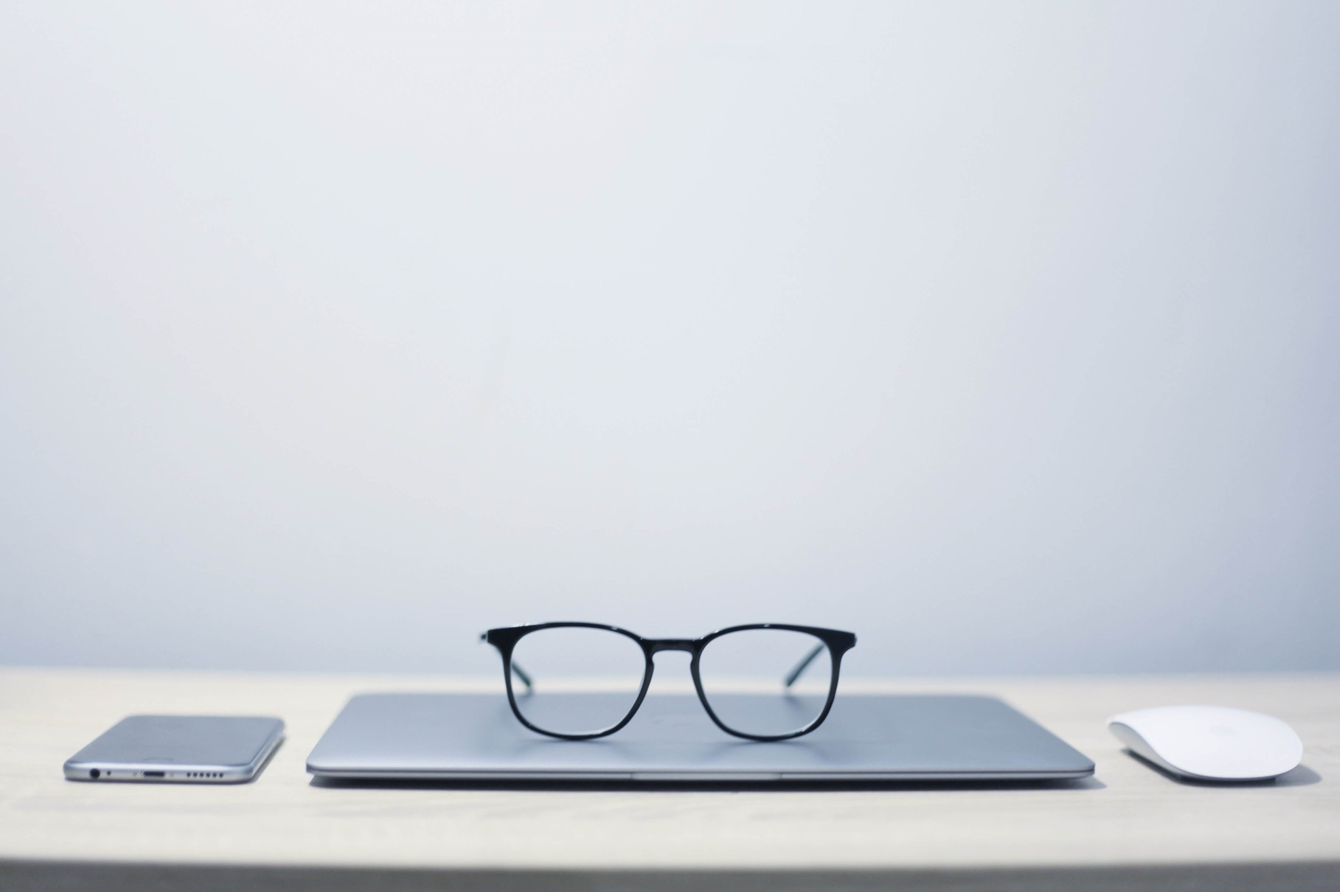
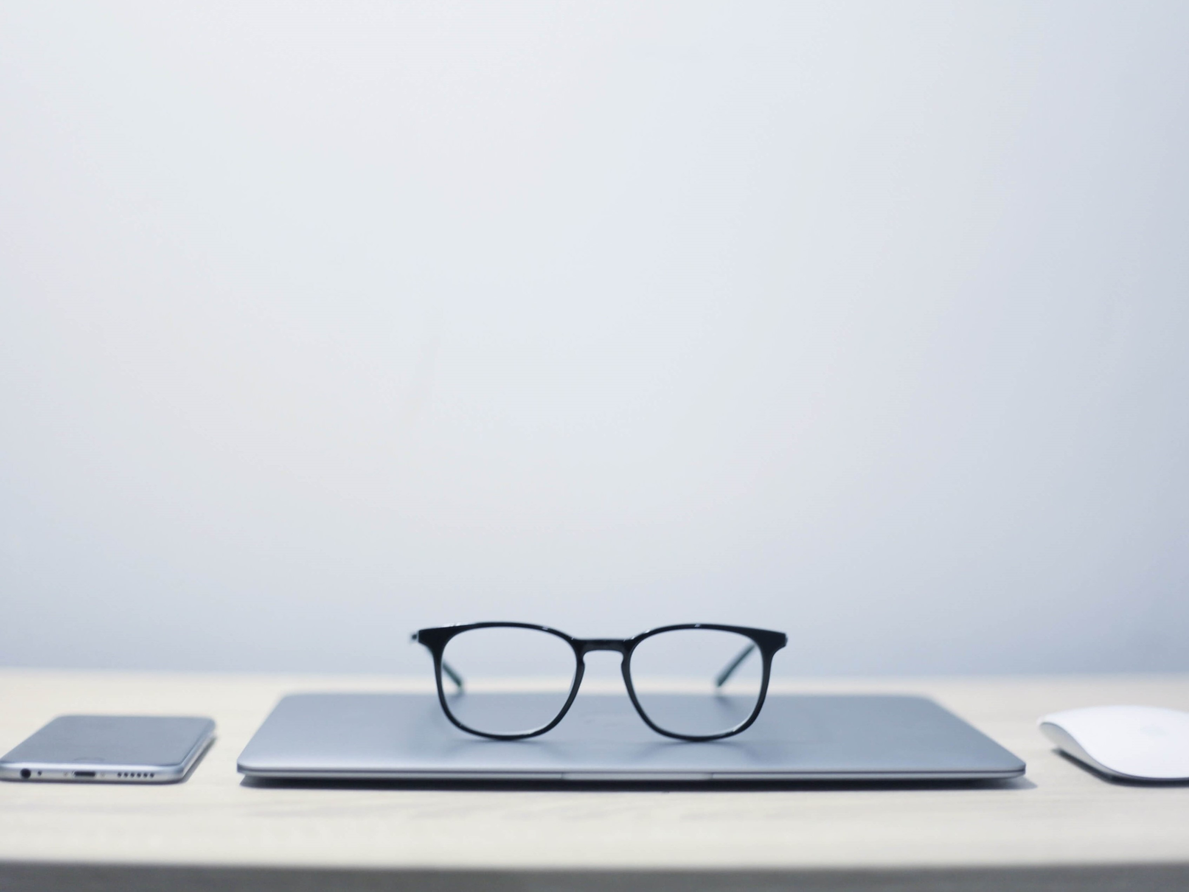
topセクションのbg画像の調整

diff --git a/css/agency.min.css b/css/agency.min.css
@@ -2,4 +2,4 @@
  * Start Bootstrap - Agency v5.2.2 (https://startbootstrap.com/template-overviews/agency)
  * Copyright 2013-2019 Start Bootstrap
  * Licensed under MIT (https://github.com/BlackrockDigital/startbootstrap-agency/blob/master/LICENSE)
- */body{font-family:"Roboto Slab",-apple-system,BlinkMacSystemFont,"Segoe UI",Roboto,"Helvetica Neue",Arial,sans-serif,"Apple Color Emoji","Segoe UI Emoji","Segoe UI Symbol","Noto Color Emoji";overflow-x:hidden}p{line-height:1.75}a{color:#fed136}a:hover{color:#fec503}.text-primary{color:#fed136!important}h1,h2,h3,h4,h5,h6{font-family:Montserrat,-apple-system,BlinkMacSystemFont,"Segoe UI",Roboto,"Helvetica Neue",Arial,sans-serif,"Apple Color Emoji","Segoe UI Emoji","Segoe UI Symbol","Noto Color Emoji";font-weight:700}.page-section{padding:100px 0}.page-section h2.section-heading{font-size:40px;margin-bottom:15px;margin-top:0}.page-section h3.section-subheading{font-family:"Droid Serif",-apple-system,BlinkMacSystemFont,"Segoe UI",Roboto,"Helvetica Neue",Arial,sans-serif,"Apple Color Emoji","Segoe UI Emoji","Segoe UI Symbol","Noto Color Emoji";font-size:16px;font-style:italic;font-weight:400;margin-bottom:75px;text-transform:none}@media (min-width:768px){section{padding:150px 0}}::-moz-selection{background:#fed136;text-shadow:none}::selection{background:#fed136;text-shadow:none}img::-moz-selection{background:0 0}img::selection{background:0 0}img::-moz-selection{background:0 0}.btn{font-family:Montserrat,-apple-system,BlinkMacSystemFont,"Segoe UI",Roboto,"Helvetica Neue",Arial,sans-serif,"Apple Color Emoji","Segoe UI Emoji","Segoe UI Symbol","Noto Color Emoji";font-weight:700}.btn-xl{font-size:18px;padding:20px 40px}.btn-primary{background-color:#fed136;border-color:#fed136}.btn-primary:active,.btn-primary:focus,.btn-primary:hover{background-color:#fec810!important;border-color:#fec810!important;color:#fff}.btn-primary:active,.btn-primary:focus{box-shadow:0 0 0 .2rem rgba(254,209,55,.5)!important}#mainNav{background-color:#212529}#mainNav .navbar-toggler{background-color:#fed136;border:0;color:#fff;font-family:Montserrat,-apple-system,BlinkMacSystemFont,"Segoe UI",Roboto,"Helvetica Neue",Arial,sans-serif,"Apple Color Emoji","Segoe UI Emoji","Segoe UI Symbol","Noto Color Emoji";font-size:12px;padding:13px;right:0;text-transform:uppercase}#mainNav .navbar-brand{color:#fed136;font-family:"Kaushan Script",-apple-system,BlinkMacSystemFont,"Segoe UI",Roboto,"Helvetica Neue",Arial,sans-serif,"Apple Color Emoji","Segoe UI Emoji","Segoe UI Symbol","Noto Color Emoji"}#mainNav .navbar-brand.active,#mainNav .navbar-brand:active,#mainNav .navbar-brand:focus,#mainNav .navbar-brand:hover{color:#fec503}#mainNav .navbar-nav .nav-item .nav-link{color:#fff;font-family:Montserrat,-apple-system,BlinkMacSystemFont,"Segoe UI",Roboto,"Helvetica Neue",Arial,sans-serif,"Apple Color Emoji","Segoe UI Emoji","Segoe UI Symbol","Noto Color Emoji";font-size:90%;font-weight:400;letter-spacing:1px;padding:.75em 0}#mainNav .navbar-nav .nav-item .nav-link.active,#mainNav .navbar-nav .nav-item .nav-link:hover{color:#fed136}@media (min-width:992px){#mainNav{background-color:transparent;border:none;padding-bottom:25px;padding-top:25px;transition:padding-top .3s,padding-bottom .3s}#mainNav .navbar-brand{font-size:1.75em;transition:all .3s}#mainNav .navbar-nav .nav-item .nav-link{padding:1.1em 1em!important}#mainNav.navbar-shrink{background-color:#212529;padding-bottom:0;padding-top:0}#mainNav.navbar-shrink .navbar-brand{font-size:1.25em;padding:12px 0}}header.masthead{background-attachment:scroll;background-image:url(../img/header-bg.jpg);background-position:center center;background-repeat:no-repeat;background-size:cover;color:#fff;text-align:center}header.masthead .intro-text{padding-bottom:100px;padding-top:100px}header.masthead .intro-text .intro-lead-in{font-family:"Droid Serif",-apple-system,BlinkMacSystemFont,"Segoe UI",Roboto,"Helvetica Neue",Arial,sans-serif,"Apple Color Emoji","Segoe UI Emoji","Segoe UI Symbol","Noto Color Emoji";font-size:22px;font-style:italic;line-height:22px;margin-bottom:25px}header.masthead .intro-text .intro-heading{font-family:Montserrat,-apple-system,BlinkMacSystemFont,"Segoe UI",Roboto,"Helvetica Neue",Arial,sans-serif,"Apple Color Emoji","Segoe UI Emoji","Segoe UI Symbol","Noto Color Emoji";font-size:50px;font-weight:700;line-height:50px;margin-bottom:25px}@media (min-width:768px){header.masthead .intro-text{padding-bottom:200px;padding-top:300px}header.masthead .intro-text .intro-lead-in{font-family:"Droid Serif",-apple-system,BlinkMacSystemFont,"Segoe UI",Roboto,"Helvetica Neue",Arial,sans-serif,"Apple Color Emoji","Segoe UI Emoji","Segoe UI Symbol","Noto Color Emoji";font-size:40px;font-style:italic;line-height:40px;margin-bottom:25px}header.masthead .intro-text .intro-heading{font-family:Montserrat,-apple-system,BlinkMacSystemFont,"Segoe UI",Roboto,"Helvetica Neue",Arial,sans-serif,"Apple Color Emoji","Segoe UI Emoji","Segoe UI Symbol","Noto Color Emoji";font-size:75px;font-weight:700;line-height:75px;margin-bottom:50px}}.service-heading{margin:15px 0;text-transform:none}#portfolio .portfolio-item{margin:0 0 15px;right:0}#portfolio .portfolio-item .portfolio-link{cursor:pointer;display:block;margin:0 auto;max-width:400px;position:relative}#portfolio .portfolio-item .portfolio-link .portfolio-hover{background:rgba(254,209,54,.9);height:100%;opacity:0;position:absolute;transition:all ease .5s;width:100%}#portfolio .portfolio-item .portfolio-link .portfolio-hover:hover{opacity:1}#portfolio .portfolio-item .portfolio-link .portfolio-hover .portfolio-hover-content{color:#fff;font-size:20px;height:20px;margin-top:-12px;position:absolute;text-align:center;top:50%;width:100%}#portfolio .portfolio-item .portfolio-link .portfolio-hover .portfolio-hover-content i{margin-top:-12px}#portfolio .portfolio-item .portfolio-link .portfolio-hover .portfolio-hover-content h3,#portfolio .portfolio-item .portfolio-link .portfolio-hover .portfolio-hover-content h4{margin:0}#portfolio .portfolio-item .portfolio-caption{background-color:#fff;margin:0 auto;max-width:400px;padding:25px;text-align:center}#portfolio .portfolio-item .portfolio-caption h4{margin:0;text-transform:none}#portfolio .portfolio-item .portfolio-caption p{font-family:"Droid Serif",-apple-system,BlinkMacSystemFont,"Segoe UI",Roboto,"Helvetica Neue",Arial,sans-serif,"Apple Color Emoji","Segoe UI Emoji","Segoe UI Symbol","Noto Color Emoji";font-size:16px;font-style:italic;margin:0}#portfolio *{z-index:2}@media (min-width:768px){#portfolio .portfolio-item{margin:0 0 30px}}.portfolio-modal .modal-dialog{margin:1rem;max-width:100vw}.portfolio-modal .modal-content{padding:100px 0;text-align:center}.portfolio-modal .modal-content h2{font-size:3em;margin-bottom:15px}.portfolio-modal .modal-content p{margin-bottom:30px}.portfolio-modal .modal-content p.item-intro{font-family:"Droid Serif",-apple-system,BlinkMacSystemFont,"Segoe UI",Roboto,"Helvetica Neue",Arial,sans-serif,"Apple Color Emoji","Segoe UI Emoji","Segoe UI Symbol","Noto Color Emoji";font-size:16px;font-style:italic;margin:20px 0 30px}.portfolio-modal .modal-content ul.list-inline{margin-bottom:30px;margin-top:0}.portfolio-modal .modal-content img{margin-bottom:30px}.portfolio-modal .modal-content button{cursor:pointer}.portfolio-modal .close-modal{background-color:transparent;cursor:pointer;height:75px;position:absolute;right:25px;top:25px;width:75px}.portfolio-modal .close-modal:hover{opacity:.3}.portfolio-modal .close-modal .lr{background-color:#212529;height:75px;margin-left:35px;transform:rotate(45deg);width:1px;z-index:1051}.portfolio-modal .close-modal .lr .rl{background-color:#212529;height:75px;transform:rotate(90deg);width:1px;z-index:1052}.timeline{list-style:none;padding:0;position:relative}.timeline:before{background-color:#e9ecef;bottom:0;content:"";left:40px;margin-left:-1.5px;position:absolute;top:0;width:2px}.timeline>li{margin-bottom:50px;min-height:50px;position:relative}.timeline>li:after,.timeline>li:before{content:" ";display:table}.timeline>li:after{clear:both}.timeline>li .timeline-panel{float:right;padding:0 20px 0 100px;position:relative;text-align:left;width:100%}.timeline>li .timeline-panel:before{border-left-width:0;border-right-width:15px;left:-15px;right:auto}.timeline>li .timeline-panel:after{border-left-width:0;border-right-width:14px;left:-14px;right:auto}.timeline>li .timeline-image{background-color:#fed136;border:7px solid #e9ecef;border-radius:100%;color:#fff;height:80px;left:0;margin-left:0;position:absolute;text-align:center;width:80px;z-index:100}.timeline>li .timeline-image h4{font-size:10px;line-height:14px;margin-top:12px}.timeline>li.timeline-inverted>.timeline-panel{float:right;padding:0 20px 0 100px;text-align:left}.timeline>li.timeline-inverted>.timeline-panel:before{border-left-width:0;border-right-width:15px;left:-15px;right:auto}.timeline>li.timeline-inverted>.timeline-panel:after{border-left-width:0;border-right-width:14px;left:-14px;right:auto}.timeline>li:last-child{margin-bottom:0}.timeline .timeline-heading h4{color:inherit;margin-top:0}.timeline .timeline-heading h4.subheading{text-transform:none}.timeline .timeline-body>p,.timeline .timeline-body>ul{margin-bottom:0}@media (min-width:768px){.timeline:before{left:50%}.timeline>li{margin-bottom:100px;min-height:100px}.timeline>li .timeline-panel{float:left;padding:0 20px 20px 30px;text-align:right;width:41%}.timeline>li .timeline-image{height:100px;left:50%;margin-left:-50px;width:100px}.timeline>li .timeline-image h4{font-size:13px;line-height:18px;margin-top:16px}.timeline>li.timeline-inverted>.timeline-panel{float:right;padding:0 30px 20px 20px;text-align:left}}@media (min-width:992px){.timeline>li{min-height:150px}.timeline>li .timeline-panel{padding:0 20px 20px}.timeline>li .timeline-image{height:150px;margin-left:-75px;width:150px}.timeline>li .timeline-image h4{font-size:18px;line-height:26px;margin-top:30px}.timeline>li.timeline-inverted>.timeline-panel{padding:0 20px 20px}}@media (min-width:1200px){.timeline>li{min-height:170px}.timeline>li .timeline-panel{padding:0 20px 20px 100px}.timeline>li .timeline-image{height:170px;margin-left:-85px;width:170px}.timeline>li .timeline-image h4{margin-top:40px}.timeline>li.timeline-inverted>.timeline-panel{padding:0 100px 20px 20px}}.team-member{margin-bottom:50px;text-align:center}.team-member img{border:7px solid rgba(0,0,0,.1);height:225px;width:225px}.team-member h4{margin-bottom:0;margin-top:25px;text-transform:none}.team-member p{margin-top:0}section#contact{background-color:#212529;background-image:url(../img/map-image.png);background-position:center;background-repeat:no-repeat}section#contact .section-heading{color:#fff}section#contact .form-group{margin-bottom:25px}section#contact .form-group input,section#contact .form-group textarea{padding:20px}section#contact .form-group input.form-control{height:auto}section#contact .form-group textarea.form-control{height:248px}section#contact .form-control:focus{border-color:#fed136;box-shadow:none}section#contact ::-webkit-input-placeholder{color:#ced4da;font-family:Montserrat,-apple-system,BlinkMacSystemFont,"Segoe UI",Roboto,"Helvetica Neue",Arial,sans-serif,"Apple Color Emoji","Segoe UI Emoji","Segoe UI Symbol","Noto Color Emoji";font-weight:700}section#contact :-moz-placeholder{color:#ced4da;font-family:Montserrat,-apple-system,BlinkMacSystemFont,"Segoe UI",Roboto,"Helvetica Neue",Arial,sans-serif,"Apple Color Emoji","Segoe UI Emoji","Segoe UI Symbol","Noto Color Emoji";font-weight:700}section#contact ::-moz-placeholder{color:#ced4da;font-family:Montserrat,-apple-system,BlinkMacSystemFont,"Segoe UI",Roboto,"Helvetica Neue",Arial,sans-serif,"Apple Color Emoji","Segoe UI Emoji","Segoe UI Symbol","Noto Color Emoji";font-weight:700}section#contact :-ms-input-placeholder{color:#ced4da;font-family:Montserrat,-apple-system,BlinkMacSystemFont,"Segoe UI",Roboto,"Helvetica Neue",Arial,sans-serif,"Apple Color Emoji","Segoe UI Emoji","Segoe UI Symbol","Noto Color Emoji";font-weight:700}.footer{padding:25px 0;text-align:center}.footer span.copyright{font-family:Montserrat,-apple-system,BlinkMacSystemFont,"Segoe UI",Roboto,"Helvetica Neue",Arial,sans-serif,"Apple Color Emoji","Segoe UI Emoji","Segoe UI Symbol","Noto Color Emoji";font-size:90%;line-height:40px;text-transform:none}.footer ul.quicklinks{font-family:Montserrat,-apple-system,BlinkMacSystemFont,"Segoe UI",Roboto,"Helvetica Neue",Arial,sans-serif,"Apple Color Emoji","Segoe UI Emoji","Segoe UI Symbol","Noto Color Emoji";font-size:90%;line-height:40px;margin-bottom:0;text-transform:none}ul.social-buttons{margin-bottom:0}ul.social-buttons li a{background-color:#212529;border-radius:100%;color:#fff;display:block;font-size:20px;height:50px;line-height:50px;outline:0;transition:all .3s;width:50px}ul.social-buttons li a:active,ul.social-buttons li a:focus,ul.social-buttons li a:hover{background-color:#fed136}
+ */body{font-family:"Roboto Slab",-apple-system,BlinkMacSystemFont,"Segoe UI",Roboto,"Helvetica Neue",Arial,sans-serif,"Apple Color Emoji","Segoe UI Emoji","Segoe UI Symbol","Noto Color Emoji";overflow-x:hidden}p{line-height:1.75}a{color:#fed136}a:hover{color:#fec503}.text-primary{color:#fed136!important}h1,h2,h3,h4,h5,h6{font-family:Montserrat,-apple-system,BlinkMacSystemFont,"Segoe UI",Roboto,"Helvetica Neue",Arial,sans-serif,"Apple Color Emoji","Segoe UI Emoji","Segoe UI Symbol","Noto Color Emoji";font-weight:700}.page-section{padding:100px 0}.page-section h2.section-heading{font-size:40px;margin-bottom:15px;margin-top:0}.page-section h3.section-subheading{font-family:"Droid Serif",-apple-system,BlinkMacSystemFont,"Segoe UI",Roboto,"Helvetica Neue",Arial,sans-serif,"Apple Color Emoji","Segoe UI Emoji","Segoe UI Symbol","Noto Color Emoji";font-size:16px;font-style:italic;font-weight:400;margin-bottom:75px;text-transform:none}@media (min-width:768px){section{padding:150px 0}}::-moz-selection{background:#fed136;text-shadow:none}::selection{background:#fed136;text-shadow:none}img::-moz-selection{background:0 0}img::selection{background:0 0}img::-moz-selection{background:0 0}.btn{font-family:Montserrat,-apple-system,BlinkMacSystemFont,"Segoe UI",Roboto,"Helvetica Neue",Arial,sans-serif,"Apple Color Emoji","Segoe UI Emoji","Segoe UI Symbol","Noto Color Emoji";font-weight:700}.btn-xl{font-size:18px;padding:20px 40px}.btn-primary{background-color:#fed136;border-color:#fed136}.btn-primary:active,.btn-primary:focus,.btn-primary:hover{background-color:#fec810!important;border-color:#fec810!important;color:#fff}.btn-primary:active,.btn-primary:focus{box-shadow:0 0 0 .2rem rgba(254,209,55,.5)!important}#mainNav{background-color:#212529}#mainNav .navbar-toggler{background-color:#fed136;border:0;color:#fff;font-family:Montserrat,-apple-system,BlinkMacSystemFont,"Segoe UI",Roboto,"Helvetica Neue",Arial,sans-serif,"Apple Color Emoji","Segoe UI Emoji","Segoe UI Symbol","Noto Color Emoji";font-size:12px;padding:13px;right:0;text-transform:uppercase}#mainNav .navbar-brand{color:#fed136;font-family:"Kaushan Script",-apple-system,BlinkMacSystemFont,"Segoe UI",Roboto,"Helvetica Neue",Arial,sans-serif,"Apple Color Emoji","Segoe UI Emoji","Segoe UI Symbol","Noto Color Emoji"}#mainNav .navbar-brand.active,#mainNav .navbar-brand:active,#mainNav .navbar-brand:focus,#mainNav .navbar-brand:hover{color:#fec503}#mainNav .navbar-nav .nav-item .nav-link{color:#fff;font-family:Montserrat,-apple-system,BlinkMacSystemFont,"Segoe UI",Roboto,"Helvetica Neue",Arial,sans-serif,"Apple Color Emoji","Segoe UI Emoji","Segoe UI Symbol","Noto Color Emoji";font-size:90%;font-weight:400;letter-spacing:1px;padding:.75em 0}#mainNav .navbar-nav .nav-item .nav-link.active,#mainNav .navbar-nav .nav-item .nav-link:hover{color:#fed136}@media (min-width:992px){#mainNav{background-color:transparent;border:none;padding-bottom:25px;padding-top:25px;transition:padding-top .3s,padding-bottom .3s}#mainNav .navbar-brand{font-size:1.75em;transition:all .3s}#mainNav .navbar-nav .nav-item .nav-link{padding:1.1em 1em!important}#mainNav.navbar-shrink{background-color:#212529;padding-bottom:0;padding-top:0}#mainNav.navbar-shrink .navbar-brand{font-size:1.25em;padding:12px 0}}header.masthead{background-attachment:scroll;background-image:url(../img/header-bg.jpg);background-position:bottom;background-repeat:no-repeat;background-size:cover;color:#fff;text-align:center}header.masthead .intro-text{padding-bottom:170px;padding-top:100px}header.masthead .intro-text .intro-lead-in{font-family:"Droid Serif",-apple-system,BlinkMacSystemFont,"Segoe UI",Roboto,"Helvetica Neue",Arial,sans-serif,"Apple Color Emoji","Segoe UI Emoji","Segoe UI Symbol","Noto Color Emoji";font-size:22px;font-style:italic;line-height:22px;margin-bottom:25px}header.masthead .intro-text .intro-heading{font-family:Montserrat,-apple-system,BlinkMacSystemFont,"Segoe UI",Roboto,"Helvetica Neue",Arial,sans-serif,"Apple Color Emoji","Segoe UI Emoji","Segoe UI Symbol","Noto Color Emoji";font-size:50px;font-weight:700;line-height:50px;margin-bottom:25px}@media (min-width:768px){header.masthead .intro-text{padding-bottom:360px;padding-top:200px}header.masthead .intro-text .intro-lead-in{font-family:"Droid Serif",-apple-system,BlinkMacSystemFont,"Segoe UI",Roboto,"Helvetica Neue",Arial,sans-serif,"Apple Color Emoji","Segoe UI Emoji","Segoe UI Symbol","Noto Color Emoji";font-size:40px;font-style:italic;line-height:40px;margin-bottom:25px}header.masthead .intro-text .intro-heading{font-family:Montserrat,-apple-system,BlinkMacSystemFont,"Segoe UI",Roboto,"Helvetica Neue",Arial,sans-serif,"Apple Color Emoji","Segoe UI Emoji","Segoe UI Symbol","Noto Color Emoji";font-size:75px;font-weight:700;line-height:75px;margin-bottom:50px}}.service-heading{margin:15px 0;text-transform:none}#portfolio .portfolio-item{margin:0 0 15px;right:0}#portfolio .portfolio-item .portfolio-link{cursor:pointer;display:block;margin:0 auto;max-width:400px;position:relative}#portfolio .portfolio-item .portfolio-link .portfolio-hover{background:rgba(254,209,54,.9);height:100%;opacity:0;position:absolute;transition:all ease .5s;width:100%}#portfolio .portfolio-item .portfolio-link .portfolio-hover:hover{opacity:1}#portfolio .portfolio-item .portfolio-link .portfolio-hover .portfolio-hover-content{color:#fff;font-size:20px;height:20px;margin-top:-12px;position:absolute;text-align:center;top:50%;width:100%}#portfolio .portfolio-item .portfolio-link .portfolio-hover .portfolio-hover-content i{margin-top:-12px}#portfolio .portfolio-item .portfolio-link .portfolio-hover .portfolio-hover-content h3,#portfolio .portfolio-item .portfolio-link .portfolio-hover .portfolio-hover-content h4{margin:0}#portfolio .portfolio-item .portfolio-caption{background-color:#fff;margin:0 auto;max-width:400px;padding:25px;text-align:center}#portfolio .portfolio-item .portfolio-caption h4{margin:0;text-transform:none}#portfolio .portfolio-item .portfolio-caption p{font-family:"Droid Serif",-apple-system,BlinkMacSystemFont,"Segoe UI",Roboto,"Helvetica Neue",Arial,sans-serif,"Apple Color Emoji","Segoe UI Emoji","Segoe UI Symbol","Noto Color Emoji";font-size:16px;font-style:italic;margin:0}#portfolio *{z-index:2}@media (min-width:768px){#portfolio .portfolio-item{margin:0 0 30px}}.portfolio-modal .modal-dialog{margin:1rem;max-width:100vw}.portfolio-modal .modal-content{padding:100px 0;text-align:center}.portfolio-modal .modal-content h2{font-size:3em;margin-bottom:15px}.portfolio-modal .modal-content p{margin-bottom:30px}.portfolio-modal .modal-content p.item-intro{font-family:"Droid Serif",-apple-system,BlinkMacSystemFont,"Segoe UI",Roboto,"Helvetica Neue",Arial,sans-serif,"Apple Color Emoji","Segoe UI Emoji","Segoe UI Symbol","Noto Color Emoji";font-size:16px;font-style:italic;margin:20px 0 30px}.portfolio-modal .modal-content ul.list-inline{margin-bottom:30px;margin-top:0}.portfolio-modal .modal-content img{margin-bottom:30px}.portfolio-modal .modal-content button{cursor:pointer}.portfolio-modal .close-modal{background-color:transparent;cursor:pointer;height:75px;position:absolute;right:25px;top:25px;width:75px}.portfolio-modal .close-modal:hover{opacity:.3}.portfolio-modal .close-modal .lr{background-color:#212529;height:75px;margin-left:35px;transform:rotate(45deg);width:1px;z-index:1051}.portfolio-modal .close-modal .lr .rl{background-color:#212529;height:75px;transform:rotate(90deg);width:1px;z-index:1052}.timeline{list-style:none;padding:0;position:relative}.timeline:before{background-color:#e9ecef;bottom:0;content:"";left:40px;margin-left:-1.5px;position:absolute;top:0;width:2px}.timeline>li{margin-bottom:50px;min-height:50px;position:relative}.timeline>li:after,.timeline>li:before{content:" ";display:table}.timeline>li:after{clear:both}.timeline>li .timeline-panel{float:right;padding:0 20px 0 100px;position:relative;text-align:left;width:100%}.timeline>li .timeline-panel:before{border-left-width:0;border-right-width:15px;left:-15px;right:auto}.timeline>li .timeline-panel:after{border-left-width:0;border-right-width:14px;left:-14px;right:auto}.timeline>li .timeline-image{background-color:#fed136;border:7px solid #e9ecef;border-radius:100%;color:#fff;height:80px;left:0;margin-left:0;position:absolute;text-align:center;width:80px;z-index:100}.timeline>li .timeline-image h4{font-size:10px;line-height:14px;margin-top:12px}.timeline>li.timeline-inverted>.timeline-panel{float:right;padding:0 20px 0 100px;text-align:left}.timeline>li.timeline-inverted>.timeline-panel:before{border-left-width:0;border-right-width:15px;left:-15px;right:auto}.timeline>li.timeline-inverted>.timeline-panel:after{border-left-width:0;border-right-width:14px;left:-14px;right:auto}.timeline>li:last-child{margin-bottom:0}.timeline .timeline-heading h4{color:inherit;margin-top:0}.timeline .timeline-heading h4.subheading{text-transform:none}.timeline .timeline-body>p,.timeline .timeline-body>ul{margin-bottom:0}@media (min-width:768px){.timeline:before{left:50%}.timeline>li{margin-bottom:100px;min-height:100px}.timeline>li .timeline-panel{float:left;padding:0 20px 20px 30px;text-align:right;width:41%}.timeline>li .timeline-image{height:100px;left:50%;margin-left:-50px;width:100px}.timeline>li .timeline-image h4{font-size:13px;line-height:18px;margin-top:16px}.timeline>li.timeline-inverted>.timeline-panel{float:right;padding:0 30px 20px 20px;text-align:left}}@media (min-width:992px){.timeline>li{min-height:150px}.timeline>li .timeline-panel{padding:0 20px 20px}.timeline>li .timeline-image{height:150px;margin-left:-75px;width:150px}.timeline>li .timeline-image h4{font-size:18px;line-height:26px;margin-top:30px}.timeline>li.timeline-inverted>.timeline-panel{padding:0 20px 20px}}@media (min-width:1200px){.timeline>li{min-height:170px}.timeline>li .timeline-panel{padding:0 20px 20px 100px}.timeline>li .timeline-image{height:170px;margin-left:-85px;width:170px}.timeline>li .timeline-image h4{margin-top:40px}.timeline>li.timeline-inverted>.timeline-panel{padding:0 100px 20px 20px}}.team-member{margin-bottom:50px;text-align:center}.team-member img{border:7px solid rgba(0,0,0,.1);height:225px;width:225px}.team-member h4{margin-bottom:0;margin-top:25px;text-transform:none}.team-member p{margin-top:0}section#contact{background-color:#212529;background-image:url(../img/map-image.png);background-position:center;background-repeat:no-repeat}section#contact .section-heading{color:#fff}section#contact .form-group{margin-bottom:25px}section#contact .form-group input,section#contact .form-group textarea{padding:20px}section#contact .form-group input.form-control{height:auto}section#contact .form-group textarea.form-control{height:248px}section#contact .form-control:focus{border-color:#fed136;box-shadow:none}section#contact ::-webkit-input-placeholder{color:#ced4da;font-family:Montserrat,-apple-system,BlinkMacSystemFont,"Segoe UI",Roboto,"Helvetica Neue",Arial,sans-serif,"Apple Color Emoji","Segoe UI Emoji","Segoe UI Symbol","Noto Color Emoji";font-weight:700}section#contact :-moz-placeholder{color:#ced4da;font-family:Montserrat,-apple-system,BlinkMacSystemFont,"Segoe UI",Roboto,"Helvetica Neue",Arial,sans-serif,"Apple Color Emoji","Segoe UI Emoji","Segoe UI Symbol","Noto Color Emoji";font-weight:700}section#contact ::-moz-placeholder{color:#ced4da;font-family:Montserrat,-apple-system,BlinkMacSystemFont,"Segoe UI",Roboto,"Helvetica Neue",Arial,sans-serif,"Apple Color Emoji","Segoe UI Emoji","Segoe UI Symbol","Noto Color Emoji";font-weight:700}section#contact :-ms-input-placeholder{color:#ced4da;font-family:Montserrat,-apple-system,BlinkMacSystemFont,"Segoe UI",Roboto,"Helvetica Neue",Arial,sans-serif,"Apple Color Emoji","Segoe UI Emoji","Segoe UI Symbol","Noto Color Emoji";font-weight:700}.footer{padding:25px 0;text-align:center}.footer span.copyright{font-family:Montserrat,-apple-system,BlinkMacSystemFont,"Segoe UI",Roboto,"Helvetica Neue",Arial,sans-serif,"Apple Color Emoji","Segoe UI Emoji","Segoe UI Symbol","Noto Color Emoji";font-size:90%;line-height:40px;text-transform:none}.footer ul.quicklinks{font-family:Montserrat,-apple-system,BlinkMacSystemFont,"Segoe UI",Roboto,"Helvetica Neue",Arial,sans-serif,"Apple Color Emoji","Segoe UI Emoji","Segoe UI Symbol","Noto Color Emoji";font-size:90%;line-height:40px;margin-bottom:0;text-transform:none}ul.social-buttons{margin-bottom:0}ul.social-buttons li a{background-color:#212529;border-radius:100%;color:#fff;display:block;font-size:20px;height:50px;line-height:50px;outline:0;transition:all .3s;width:50px}ul.social-buttons li a:active,ul.social-buttons li a:focus,ul.social-buttons li a:hover{background-color:#fed136}

diff --git a/custom.css b/custom.css
@@ -11,6 +11,7 @@
   line-height: 1.2;
   margin-bottom: 75px;
 }
+
 /* コンタクトフォーム */
 .googleform_wrap {
   display: flex;
@@ -29,7 +30,6 @@
 .about_wrap {
   display: block;
 }
-
 @media screen and (min-width: 768px) {
   .about_wrap {
     display: flex;
@@ -41,7 +41,6 @@
   margin-bottom: 50px;
   width: 100%;
 }
-
 @media screen and (min-width: 768px) {
   .about_img {
     margin: 0;
@@ -53,7 +52,6 @@
   text-align: center;
   width: 100%;
 }
-
 @media screen and (min-width: 768px) {
   .about_text {
     text-align: center;
@@ -97,13 +95,11 @@
   margin-top: 16px;
   padding: 0;
 }
-
 @media screen and (min-width: 768px) {
   .skill_content_wrap {
     padding-inline-start: 40px;
   }
 }
-
 @media screen and (min-width: 1024px) {
   .skill_content_wrap {
     font-size: 1rem;
@@ -118,7 +114,6 @@
   text-align: center;
   width: 20%;
 }
-
 @media screen and (min-width: 768px) {
   .skill_content {
     margin-bottom: 50px;
@@ -136,7 +131,6 @@
   right: 0;
   width: 24px;
 }
-
 @media screen and (min-width: 768px) {
   .skill_content::before {
     height: 40px;
@@ -225,9 +219,11 @@
     min-width: 50%;
   }
 }
+
 #portfolio .portfolio-item {
   margin: 0 0 70px;
 }
+
 #portfolio .portfolio-item:last-child {
   margin: 0;
 }

diff --git a/css/agency.css b/css/agency.css
@@ -168,7 +168,7 @@ img::-moz-selection {
 header.masthead {
   background-attachment: scroll;
   background-image: url("../img/header-bg.jpg");
-  background-position: center center;
+  background-position: bottom;
   background-repeat: no-repeat;
   background-size: cover;
   color: white;
@@ -176,7 +176,7 @@ header.masthead {
 }
 
 header.masthead .intro-text {
-  padding-bottom: 100px;
+  padding-bottom: 170px;
   padding-top: 100px;
 }
 
@@ -198,8 +198,8 @@ header.masthead .intro-text .intro-heading {
 
 @media (min-width: 768px) {
   header.masthead .intro-text {
-    padding-bottom: 200px;
-    padding-top: 300px;
+    padding-bottom: 360px;
+    padding-top: 200px;
   }
   header.masthead .intro-text .intro-lead-in {
     font-family: "Droid Serif", -apple-system, BlinkMacSystemFont, "Segoe UI", Roboto, "Helvetica Neue", Arial, sans-serif, "Apple Color Emoji", "Segoe UI Emoji", "Segoe UI Symbol", "Noto Color Emoji";

diff --git a/index_non-minify.html b/index_non-minify.html
@@ -79,7 +79,7 @@
       <div class="intro-text">
         <div class="intro-lead-in text_style js-trigger fade-type-scale">Welcome To My Portfolio!</div>
         <p class="intro-heading text-uppercase text_style js-trigger fade-type-scale">Takeshi Sakurai</p>
-        <!-- <a class="btn btn-primary btn-xl text-uppercase js-scroll-trigger" href="#services">Tell Me More</a> -->
+        <a class="btn btn-primary btn-xl text-uppercase js-scroll-trigger" href="#contact">contact me</a>
       </div>
     </div>
   </header>
